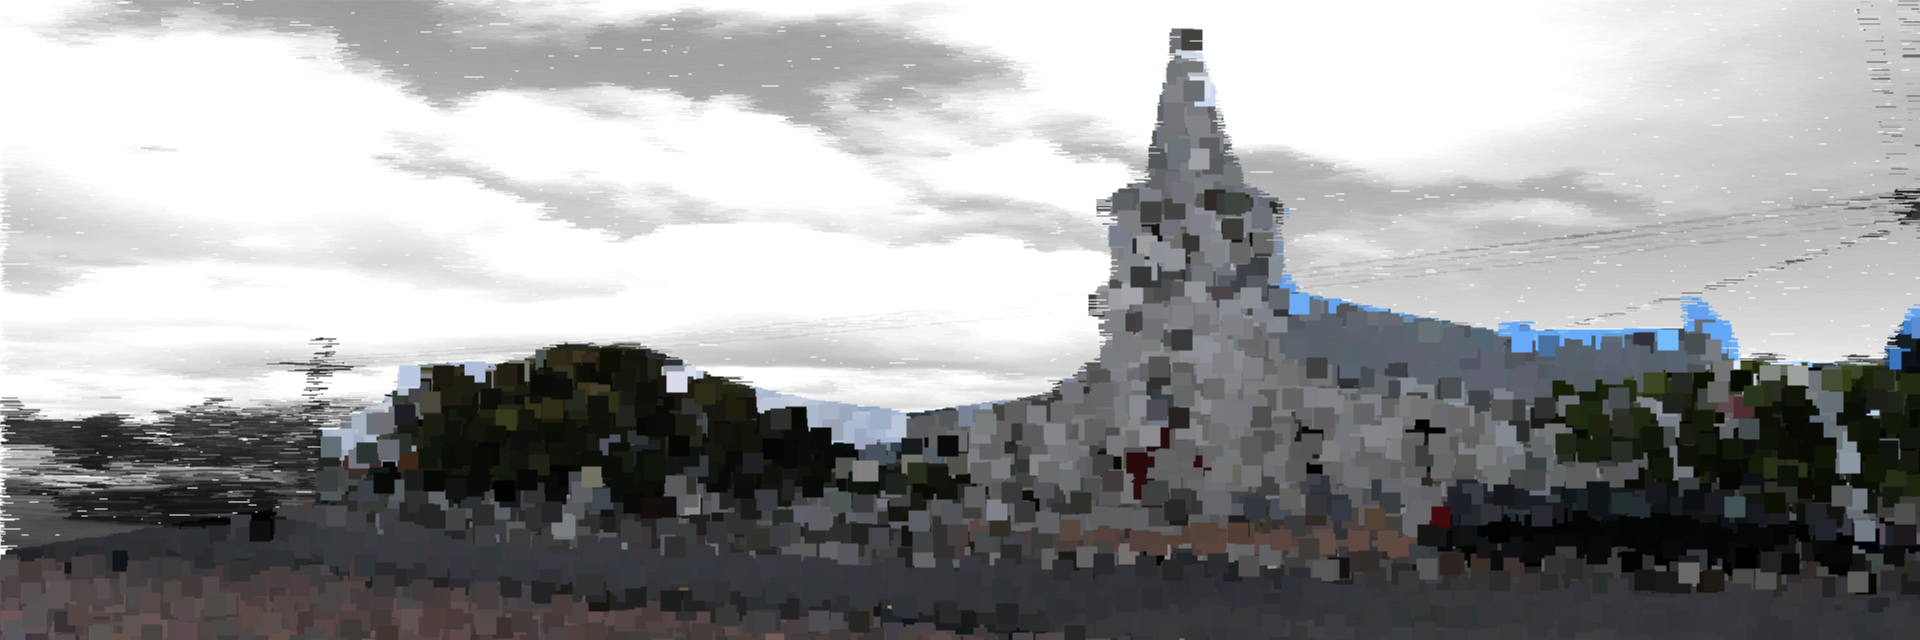
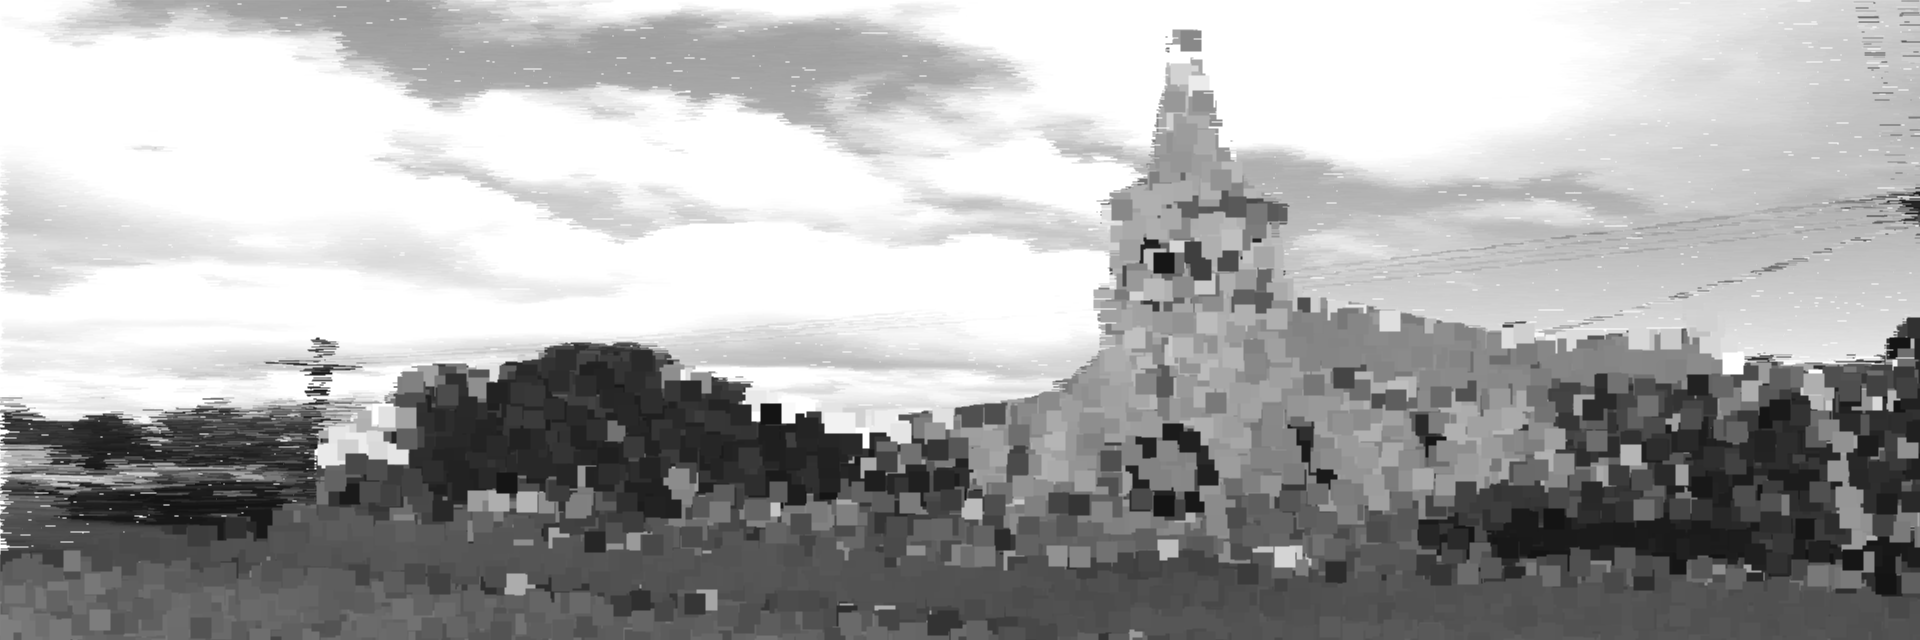
experiment 2

diff --git a/old download/sketch.js b/old download/sketch.js
@@ -38,11 +38,16 @@ function draw () {
     let cd = lerpColor(dark, light, bright);
 
     if (mask[0] == 0) {
-      
-     fill(pix);
-     stroke(pix);
-     strokeWeight(1);
-     rect(x, y, pointSize, pointSize);
+
+      fill(cd);
+      stroke(cd);
+      strokeWeight(1);
+      rect(x, y, pointSize, pointSize);
+     // image23
+     // fill(pix);
+     // stroke(pix);
+     // strokeWeight(1);
+     // rect(x, y, pointSize, pointSize);
 
    }
 

diff --git a/old download/README.md b/old download/README.md
@@ -1,7 +1,4 @@
 ## Creative Coding 2: Custom Pixel
 
-theme ideal: Ghost town
-for project 3 I want to use custom pixel to  make a ghost town. Because the world
-is change a lot in this half year, and it is kind of crazy. so I want to use ghost
-town to express the dark side of the world. specifically, I will use grey color to
-create a damaged atmosphere.
+Experiment 2
+I change the building color into grey color, it is more comfortable. 
